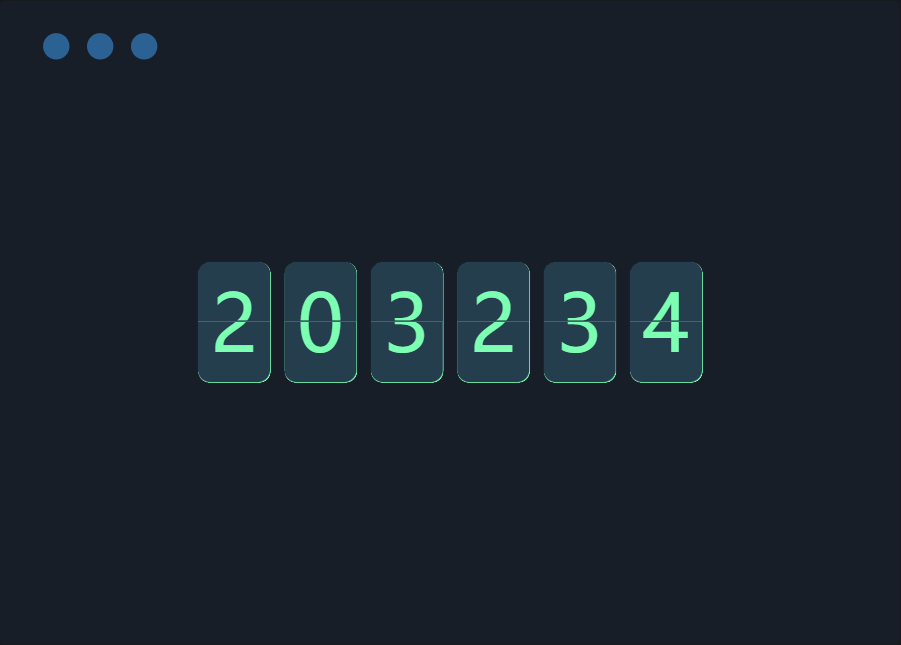
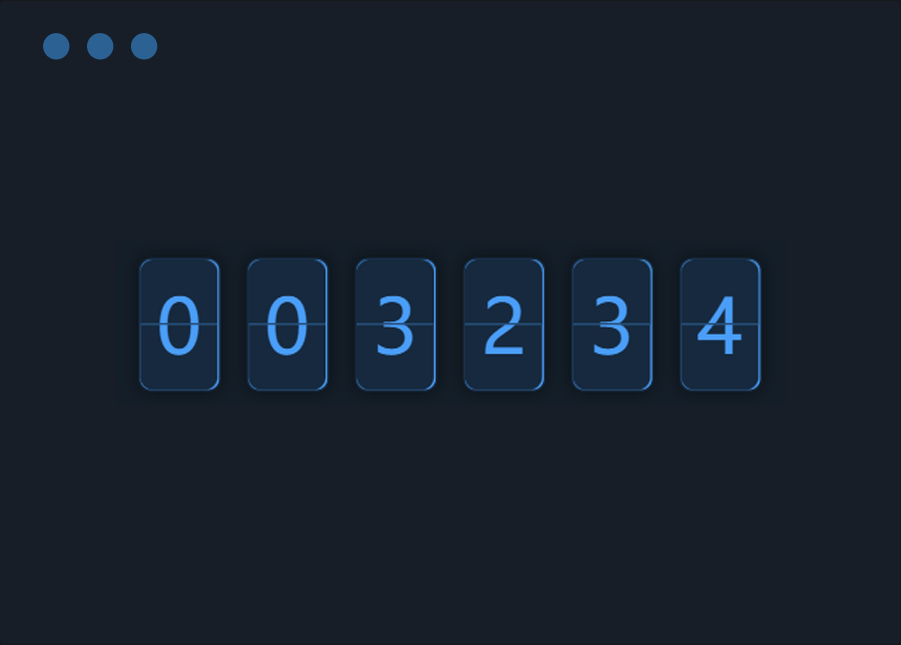
style: 调整缩略图和默认颜色配置

diff --git a/src/components/Flipper/index.vue b/src/components/Flipper/index.vue
@@ -86,48 +86,50 @@ watch(
 </script>
 
 <style lang="scss" scoped>
-// #region 动画效果
-@keyframes frontFlipDown {
-  0% {
-    transform: perspective(v-bind('`${props.height * 1.6}px`')) rotateX(0deg);
-  }
-  100% {
-    transform: perspective(v-bind('`${props.height * 1.6}px`')) rotateX(-180deg);
-  }
-}
-@keyframes backFlipDown {
-  0% {
-    transform: perspective(v-bind('`${props.height * 1.6}px`')) rotateX(180deg);
-  }
-  100% {
-    transform: perspective(v-bind('`${props.height * 1.6}px`')) rotateX(0deg);
-  }
-}
-@keyframes frontFlipUp {
-  0% {
-    transform: perspective(v-bind('`${props.height * 1.6}px`')) rotateX(0deg);
-  }
-  100% {
-    transform: perspective(v-bind('`${props.height * 1.6}px`')) rotateX(180deg);
-  }
-}
-@keyframes backFlipUp {
-  0% {
-    transform: perspective(v-bind('`${props.height * 1.6}px`')) rotateX(-180deg);
-  }
-  100% {
-    transform: perspective(v-bind('`${props.height * 1.6}px`')) rotateX(0deg);
-  }
-}
-// #endregion
-
 $frontColor: v-bind('props.frontColor');
 $backColor: v-bind('props.backColor');
 $radius: v-bind('`${props.radius}px`');
 $width: v-bind('`${props.width}px`');
 $height: v-bind('`${props.height}px`');
+$perspective: v-bind('`${props.height * 2}px`');
+$speed: v-bind('`${props.duration / 1000}s`');
 $shadowColor: #000000;
-$lineColor: #ffffff;
+$lineColor: #4a9ef8;
+
+// #region 动画效果
+@keyframes frontFlipDown {
+  0% {
+    transform: perspective($perspective) rotateX(0deg);
+  }
+  100% {
+    transform: perspective($perspective) rotateX(-180deg);
+  }
+}
+@keyframes backFlipDown {
+  0% {
+    transform: perspective($perspective) rotateX(180deg);
+  }
+  100% {
+    transform: perspective($perspective) rotateX(0deg);
+  }
+}
+@keyframes frontFlipUp {
+  0% {
+    transform: perspective($perspective) rotateX(0deg);
+  }
+  100% {
+    transform: perspective($perspective) rotateX(180deg);
+  }
+}
+@keyframes backFlipUp {
+  0% {
+    transform: perspective($perspective) rotateX(-180deg);
+  }
+  100% {
+    transform: perspective($perspective) rotateX(0deg);
+  }
+}
+// #endregion
 
 .M-Flipper {
   display: inline-block;
@@ -138,7 +140,7 @@ $lineColor: #ffffff;
   border: solid 1px $backColor;
   border-radius: $radius;
   background: $frontColor;
-  font-size: v-bind('`${props.width * 1.1}px`');
+  font-size: $width;
   color: $frontColor;
   box-shadow: 0 0 6px rgba($color: $shadowColor, $alpha: 0.5); // 阴影部分
   text-align: center;
@@ -181,7 +183,7 @@ $lineColor: #ffffff;
   &.down .back:after {
     z-index: 2;
     transform-origin: 50% 0%;
-    transform: perspective(v-bind('`${props.height * 1.6}px`')) rotateX(180deg);
+    transform: perspective($perspective) rotateX(180deg);
   }
   &.down .front:after,
   &.down .back:before {
@@ -189,12 +191,12 @@ $lineColor: #ffffff;
   }
   &.down.go .front:before {
     transform-origin: 50% 100%;
-    animation: frontFlipDown v-bind('`${props.duration / 1000}s`') ease-in-out both;
+    animation: frontFlipDown $speed ease-in-out both;
     box-shadow: 0 -2px 6px rgba($color: $lineColor, $alpha: 0.3);
     backface-visibility: hidden;
   }
   &.down.go .back:after {
-    animation: backFlipDown v-bind('`${props.duration / 1000}s`') ease-in-out both;
+    animation: backFlipDown $speed ease-in-out both;
   }
   /*向上翻*/
   &.up .front:after {
@@ -203,7 +205,7 @@ $lineColor: #ffffff;
   &.up .back:before {
     z-index: 2;
     transform-origin: 50% 100%;
-    transform: perspective(v-bind('`${props.height * 1.6}px`')) rotateX(-180deg);
+    transform: perspective($perspective) rotateX(-180deg);
   }
   &.up .front:before,
   &.up .back:after {
@@ -211,12 +213,12 @@ $lineColor: #ffffff;
   }
   &.up.go .front:after {
     transform-origin: 50% 0;
-    animation: frontFlipUp v-bind('`${props.duration / 1000}s`') ease-in-out both;
+    animation: frontFlipUp $speed ease-in-out both;
     box-shadow: 0 2px 6px rgba($color: $lineColor, $alpha: 0.3);
     backface-visibility: hidden;
   }
   &.up.go .back:before {
-    animation: backFlipUp v-bind('`${props.duration / 1000}s`') ease-in-out both;
+    animation: backFlipUp $speed ease-in-out both;
   }
 }
 </style>

diff --git a/src/packages/components/Decorates/Mores/CountDown/config.ts b/src/packages/components/Decorates/Mores/CountDown/config.ts
@@ -29,8 +29,8 @@ export const option: OptionType = {
   endDate: new Date().getTime(), // 当前时间
   style: '时分秒',
   showDay: false,
-  flipperBgColor: '#253E4E',
-  flipperTextColor: '#7CFFB2FF',
+  flipperBgColor: '#16293E',
+  flipperTextColor: '#4A9EF8FF',
   flipperWidth: 30,
   flipperHeight: 50,
   flipperRadius: 5,

diff --git a/src/packages/components/Decorates/Mores/FlipperNumber/config.ts b/src/packages/components/Decorates/Mores/FlipperNumber/config.ts
@@ -21,8 +21,8 @@ export interface OptionType {
 export const option: OptionType = {
   dataset: 3234,
   flipperLength: 6,
-  flipperBgColor: '#253E4E',
-  flipperTextColor: '#7CFFB2FF',
+  flipperBgColor: '#16293E',
+  flipperTextColor: '#4A9EF8FF',
   flipperWidth: 30,
   flipperHeight: 50,
   flipperRadius: 5,
